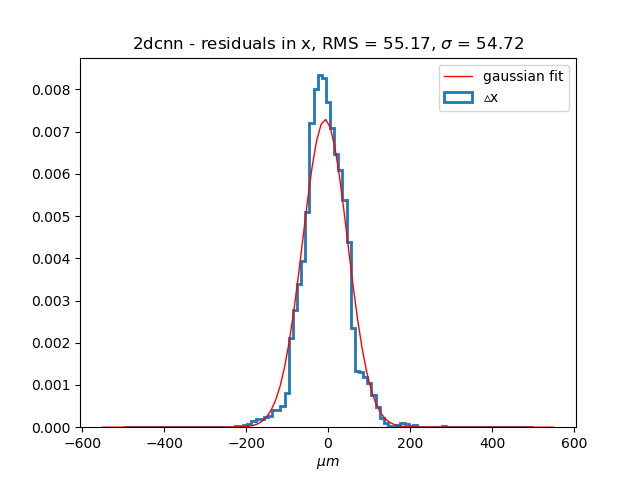
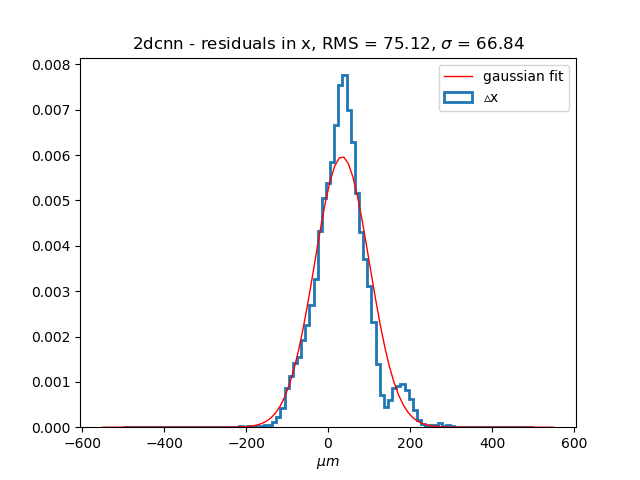
removed tracks with big pixels

diff --git a/plugins/Infer2DCNN.cpp b/plugins/Infer2DCNN.cpp
@@ -442,7 +442,8 @@ public:
 //			printf("mrow = %i, mcol = %i\n",mrow,mcol);
   //float clusbuf[mrow][mcol];
   //memset(clusbuf, 0, sizeof(float) * mrow * mcol);
-int clustersize_x = 0, clustersize_y = 0;
+				int clustersize_x = 0, clustersize_y = 0;
+				bool bigPixel = false;
 				int same_x = 500, same_y = 500; //random initial value
 				for (int i = 0; i < cluster.size(); ++i) {
 					auto pix = cluster.pixel(i);
@@ -450,10 +451,10 @@ int clustersize_x = 0, clustersize_y = 0;
 					int icol = int(pix.y) - col_offset;
 					//double pixels skip
 					if ((int)pix.x == 79){
-						i+=2; continue;
+						bigPixel=true; break;
 					}
 					if ((int)pix.y % 52 == 51 ){
-						i+=2; continue; 
+						bigPixel=true; break;
 					}
 
 					if(irow != same_x){
@@ -465,6 +466,7 @@ int clustersize_x = 0, clustersize_y = 0;
 						same_y = icol;
 					}
 				}
+				if(bigPixel) continue;
 				//printf("clustersize_x = %i, clustersize_y = %i\n",clustersize_x,clustersize_y);
 
 				if(clustersize_x%2==0) mid_x = int(clustersize_x/2);
@@ -483,12 +485,7 @@ int clustersize_x = 0, clustersize_y = 0;
 					//printf("mrow = %i, mcol = %i\n",mrow,mcol);
     // Gavril : what do we do here if the row/column is larger than cluster_matrix_size_x/cluster_matrix_size_y  ?
     // Ignore them for the moment...
-					if ((int)pix.x == 79){
-						i+=2; continue;
-					}
-					if ((int)pix.y % 52 == 51 ){
-						i+=2; continue; 
-					}
+					
 					if ((irow > mrow+offset_x) || (icol > mcol+offset_y)) continue;
 					clusbuf[irow][icol] = float(pix.adc);
  //   printf("pix[%i].adc = %i, pix.x = %i, pix.y = %i, irow = %i, icol = %i\n",i,pix.adc,pix.x,pix.y,irow,icol);
